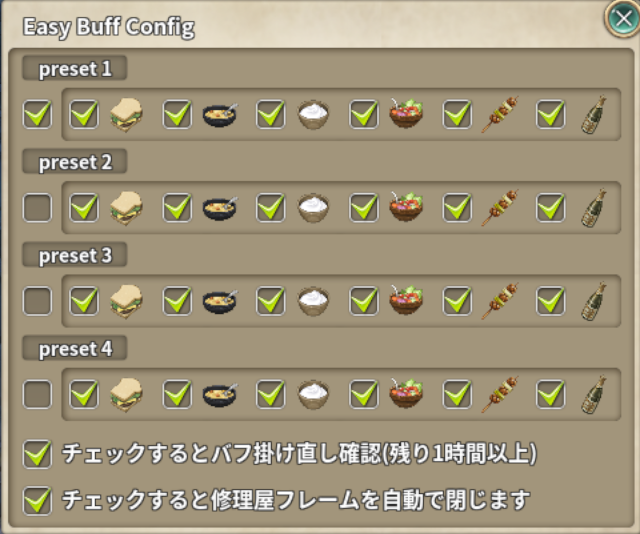
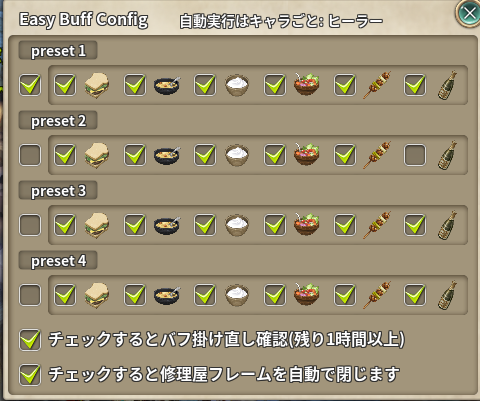
feat(easy_buff): 自動実行するプリセットをキャラごとに選べるようにする
メシ屋を開いたときに自動で食べるプリセットの選択を、キャラ(cid)ごとに
char_food_check へ保存する。プリセットの名前と料理は全キャラ共通のまま。
まだ選んでいないキャラは従来の food_check に従うので、既存の設定の動きは変わらない。
設定画面のタイトル右に、どのキャラの設定かを出す。

あわせて、自動実行のプリセットを選んでいると店のどのボタンを押しても
そのプリセットを食べていたのを直す(押したボタンの番号を引数で渡す)。

Changed region(s): [[0.0, 0.0, 1.0, 1.0], [0.375, 0.0299, 0.8125, 0.0898]]

diff --git a/nexus_addons_p/src/addons/easy_buff/README.md b/nexus_addons_p/src/addons/easy_buff/README.md
@@ -24,6 +24,8 @@
   そのプリセットでチェックした料理を順に食べます（0.6 秒間隔）。
 * 設定でプリセットを 1 つ選んでおくと、**店を開いた時点で自動的にそれを実行**します。
   食べ終わると店のウィンドウは自動で閉じます。
+  **どのプリセットを自動実行するかはキャラごとに選べます**（プリセットの名前と料理は全キャラ共通）。
+  赤いボタンは、今のキャラで自動実行するプリセットです。
 
 外す対象の食事バフ ID は `4021` / `4022` / `4023` / `4024` / `4087` / `4136` です。
 
@@ -69,12 +71,12 @@
 
 アドオン一覧（メニューボタン → アドオン一覧）の歯車ボタンから開きます。
 
-![Easy Buff Config の画面。preset 1〜4 が縦に並び、各プリセットに選択用のチェックと料理 6 種類のチェックが横並びで付く。最下部にバフ掛け直し確認と修理屋フレームの自動クローズのチェックがある](images/02-settings.png)
+![Easy Buff Config の画面。タイトルの右に「自動実行はキャラごと: ヒーラー」と今のキャラ名が出ている。preset 1〜4 が縦に並び、各プリセットの左端に自動実行の選択チェック（この例では preset 1 だけ ON）、右に料理 6 種類のチェックが横並びで付く。最下部にバフ掛け直し確認と修理屋フレームの自動クローズのチェックがある](images/02-settings.png)
 
 | 項目 | 既定値 | 説明 |
 | --- | --- | --- |
 | プリセット名（4 つ） | `preset 1`〜`4` | **Enter キーで確定** |
-| プリセットの選択チェック | プリセット 1 | チェックしたものが「店を開いたら自動実行」の対象。全部外すと自動実行しない |
+| プリセットの選択チェック | プリセット 1 | チェックしたものが「店を開いたら自動実行」の対象。全部外すと自動実行しない。**キャラごとに覚える**（タイトルの右に今のキャラ名が出る） |
 | 料理チェック（プリセットごとに 6 個） | すべて ON | そのプリセットで食べる料理 |
 | バフ掛け直し確認（残り1時間以上） | OFF | ON にすると確認ダイアログを出す |
 | 修理屋フレームを自動で閉じます | OFF | ON にすると修理後にウィンドウを閉じる |
@@ -88,12 +90,14 @@
   "food_presets_name":  { "1": "preset 1", ... },
   "food_presets_check": { "1": { "1": 1, "2": 1, "3": 1, "4": 1, "5": 1, "6": 1 }, ... },
   "food_check": 1,
+  "char_food_check": { "<キャラの CID>": 3, ... },
   "confirm_check": 0,
   "repair_check": 0
 }
 ```
 
-`food_check` が `0` のときは「自動実行なし」です。
+`char_food_check` がキャラごとの自動実行プリセットで、`0` は「自動実行なし」です。
+まだ設定画面で選んでいないキャラは `food_check`（キャラごとの選択を入れる前の設定）に従います。
 
 ## 注意
 

diff --git a/nexus_addons_p/README.md b/nexus_addons_p/README.md
@@ -299,6 +299,11 @@ Nexus Addons P は本家をリネームした派生版のため、**両方を同
     ON にすると、次にデータを保存するときから、今週を含めて 4 週より古い週のデータを消します
     （保存データは取得するたびに増え続け、ランキングの週タブを切り替えるたびに丸ごと読み直しているため）。
     切り替えた時点では何も消しません。
+  * Easy Buff: メシ屋を開いたときに**自動で食べるプリセットを、キャラごとに選べるようにしました**。
+    設定画面の左端のチェックを、今ログインしているキャラの分として覚えます（タイトルの右にキャラ名が出ます）。
+    プリセットの名前と料理は今までどおり全キャラ共通です。まだ選んでいないキャラは、これまでの設定のまま動きます。
+  * Easy Buff: 自動実行のプリセットを選んでいると、**店のどのボタンを押しても自動実行のプリセットを食べていた**のを直しました。
+    押したボタンのプリセットを食べます。
 
 * **v2.10.0**
   * Indun Panel: **パネルの行にマウスを載せたときに、ツールチップが出たり消えたりして
